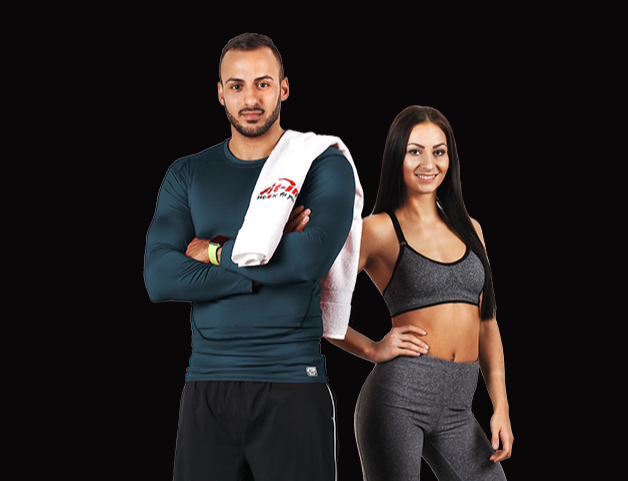
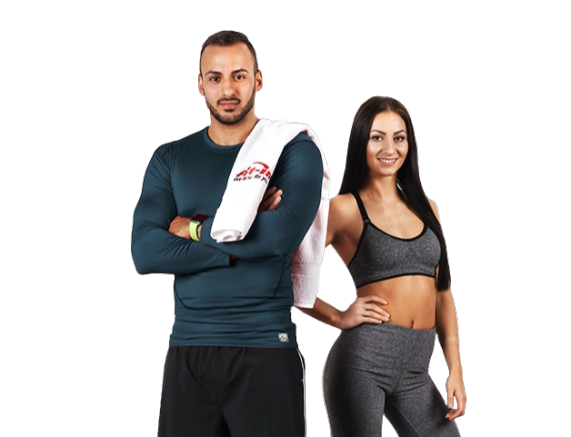
UI update 2.0
added images for arm workout, bicep workout. fixed png file on front page and edited dashboard

diff --git a/my_flutter/lib/dashboard.dart b/my_flutter/lib/dashboard.dart
@@ -183,7 +183,7 @@ class _FitnessDashboardState extends State<FitnessDashboard> {
             ),
             const SizedBox(height: 20),
 
-            // Map Section (Placeholder for now)
+            // Exercise Shortcuts Section
             Container(
               padding: const EdgeInsets.all(16),
               decoration: BoxDecoration(
@@ -197,16 +197,64 @@ class _FitnessDashboardState extends State<FitnessDashboard> {
                   ),
                 ],
               ),
-              child: const Column(
+              child: Column(
                 crossAxisAlignment: CrossAxisAlignment.start,
                 children: [
-                  Text('Running Map',
+                  const Text('Exercise Shortcuts',
                       style: TextStyle(
                           fontSize: 18,
                           fontWeight: FontWeight.bold,
                           color: Colors.white)),
-                  SizedBox(height: 8),
-                  Placeholder(fallbackHeight: 150, color: Colors.grey),
+                  const SizedBox(height: 8),
+                  Row(
+                    mainAxisAlignment: MainAxisAlignment.spaceBetween,
+                    children: [
+                      exerciseShortcut('Running', Icons.directions_run),
+                      exerciseShortcut('Cycling', Icons.pedal_bike),
+                      exerciseShortcut('Yoga', Icons.self_improvement),
+                    ],
+                  ),
+                ],
+              ),
+            ),
+            const SizedBox(height: 20),
+
+            // Recently Performed Section
+            Container(
+              padding: const EdgeInsets.all(16),
+              decoration: BoxDecoration(
+                color: Colors.grey[850],
+                borderRadius: BorderRadius.circular(12),
+                boxShadow: [
+                  BoxShadow(
+                    color: Colors.black.withOpacity(0.6),
+                    blurRadius: 10,
+                    offset: const Offset(0, 6),
+                  ),
+                ],
+              ),
+              child: Column(
+                crossAxisAlignment: CrossAxisAlignment.start,
+                children: [
+                  const Text('Recently Performed',
+                      style: TextStyle(
+                          fontSize: 18,
+                          fontWeight: FontWeight.bold,
+                          color: Colors.white)),
+                  const SizedBox(height: 8),
+                  ListView.builder(
+                    shrinkWrap: true,
+                    itemCount: currentData['recentExercises']?.length ?? 0,
+                    itemBuilder: (context, index) {
+                      final exercise = currentData['recentExercises'][index];
+                      return ListTile(
+                        title: Text(exercise['name'],
+                            style: const TextStyle(color: Colors.white)),
+                        subtitle: Text(exercise['date'],
+                            style: const TextStyle(color: Colors.grey)),
+                      );
+                    },
+                  ),
                 ],
               ),
             ),
@@ -278,6 +326,25 @@ class _FitnessDashboardState extends State<FitnessDashboard> {
             ],
           ),
         ),
+      ),
+    );
+  }
+
+  Widget exerciseShortcut(String label, IconData icon) {
+    return GestureDetector(
+      onTap: () {
+        // Handle exercise shortcut tap
+      },
+      child: Column(
+        children: [
+          CircleAvatar(
+            backgroundColor: Colors.blueGrey[700],
+            radius: 30,
+            child: Icon(icon, color: Colors.white, size: 30),
+          ),
+          const SizedBox(height: 8),
+          Text(label, style: const TextStyle(color: Colors.white)),
+        ],
       ),
     );
   }

diff --git a/my_flutter/lib/arms_workout.dart b/my_flutter/lib/arms_workout.dart
@@ -29,6 +29,7 @@ class ArmsWorkoutPage extends StatelessWidget {
             DetailedWorkoutCard(
               title: "Bicep Curls",
               subtitle: "Bicep",
+              imagePath: 'assets/bicep.jpeg',
               onTap: () {
                 Navigator.push(
                   context,
@@ -39,6 +40,7 @@ class ArmsWorkoutPage extends StatelessWidget {
             DetailedWorkoutCard(
               title: "Hammer Curls",
               subtitle: "Bicep",
+              imagePath: 'assets/hammer_curls.png',
               onTap: () {
                 // Action for Hammer Curls
               },
@@ -46,6 +48,7 @@ class ArmsWorkoutPage extends StatelessWidget {
             DetailedWorkoutCard(
               title: "Lateral Raises",
               subtitle: "Shoulders",
+              imagePath: 'assets/lateral_raises.png',
               onTap: () {
                 // Action for Lateral Raises
               },
@@ -53,6 +56,7 @@ class ArmsWorkoutPage extends StatelessWidget {
             DetailedWorkoutCard(
               title: "Overhead Press",
               subtitle: "Shoulders",
+              imagePath: 'assets/overhead_press.png',
               onTap: () {
                 // Action for Overhead Press
               },
@@ -60,6 +64,7 @@ class ArmsWorkoutPage extends StatelessWidget {
             DetailedWorkoutCard(
               title: "Overhead Tricep Extensions",
               subtitle: "Triceps",
+              imagePath: 'assets/tricep.jpeg',
               onTap: () {
                 // Action for Overhead Tricep Extensions
               },
@@ -67,6 +72,7 @@ class ArmsWorkoutPage extends StatelessWidget {
             DetailedWorkoutCard(
               title: "Skullcrushers",
               subtitle: "Triceps",
+              imagePath: 'assets/skullcrushers.png',
               onTap: () {
                 // Action for Skullcrushers
               },
@@ -81,12 +87,14 @@ class ArmsWorkoutPage extends StatelessWidget {
 class DetailedWorkoutCard extends StatefulWidget {
   final String title;
   final String subtitle;
+  final String imagePath;
   final VoidCallback onTap;
 
   const DetailedWorkoutCard({
     super.key,
     required this.title,
     required this.subtitle,
+    required this.imagePath,
     required this.onTap,
   });
 
@@ -136,9 +144,8 @@ class _DetailedWorkoutCardState extends State<DetailedWorkoutCard> {
                   duration: const Duration(milliseconds: 300),
                   child: Container(
                     decoration: BoxDecoration(
-                      image: const DecorationImage(
-                        image: NetworkImage(
-                            'https://via.placeholder.com/400x400'), // Add an image URL here
+                      image: DecorationImage(
+                        image: AssetImage(widget.imagePath),
                         fit: BoxFit.cover,
                       ),
                       borderRadius: BorderRadius.circular(12),

diff --git a/my_flutter/lib/workout_page.dart b/my_flutter/lib/workout_page.dart
@@ -39,6 +39,7 @@ class WorkoutPage extends StatelessWidget {
             return _WorkoutCard(
               title: _getWorkoutTitle(index),
               subtitle: _getWorkoutSubtitle(index),
+              imagePath: _getImagePath(index),
               destinationPage: _getDestinationPage(index),
             );
           },
@@ -81,6 +82,23 @@ class WorkoutPage extends StatelessWidget {
     }
   }
 
+  String _getImagePath(int index) {
+    switch (index) {
+      case 0:
+        return 'assets/arms.jpeg';
+      case 1:
+        return 'assets/chest.png';
+      case 2:
+        return 'assets/legs.png';
+      case 3:
+        return 'assets/core.png';
+      case 4:
+        return 'assets/back.png';
+      default:
+        return 'assets/cardio.png';
+    }
+  }
+
   Widget _getDestinationPage(int index) {
     switch (index) {
       case 0:
@@ -102,11 +120,13 @@ class WorkoutPage extends StatelessWidget {
 class _WorkoutCard extends StatefulWidget {
   final String title;
   final String subtitle;
+  final String imagePath;
   final Widget destinationPage;
 
   const _WorkoutCard({
     required this.title,
     required this.subtitle,
+    required this.imagePath,
     required this.destinationPage,
   });
 
@@ -175,9 +195,8 @@ class _WorkoutCardState extends State<_WorkoutCard> {
                   duration: const Duration(milliseconds: 300),
                   child: Container(
                     decoration: BoxDecoration(
-                      image: const DecorationImage(
-                        image: NetworkImage(
-                            'https://via.placeholder.com/100x100'), // Add an image URL here
+                      image: DecorationImage(
+                        image: AssetImage(widget.imagePath),
                         fit: BoxFit.cover,
                       ),
                       borderRadius: BorderRadius.circular(5),
